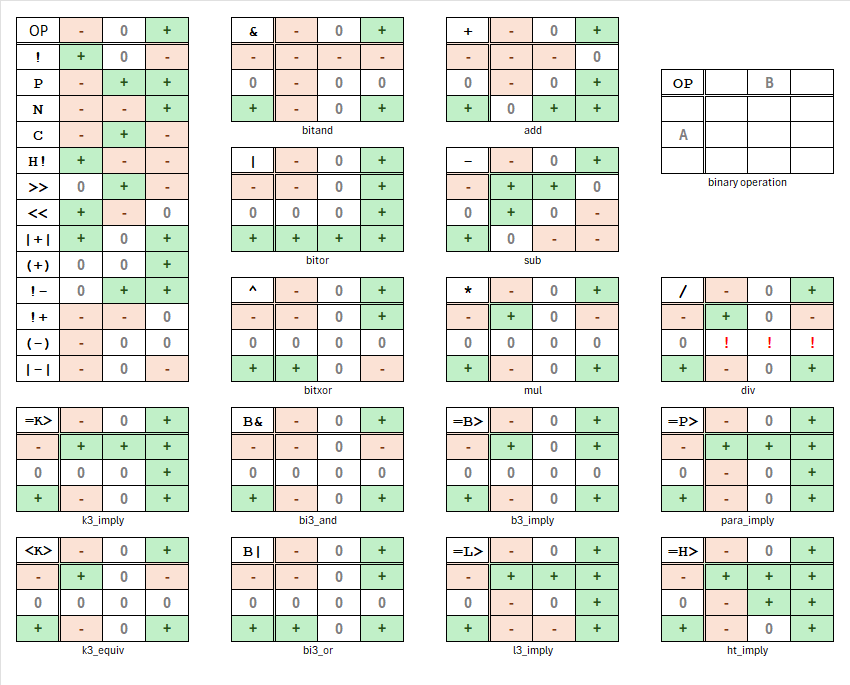
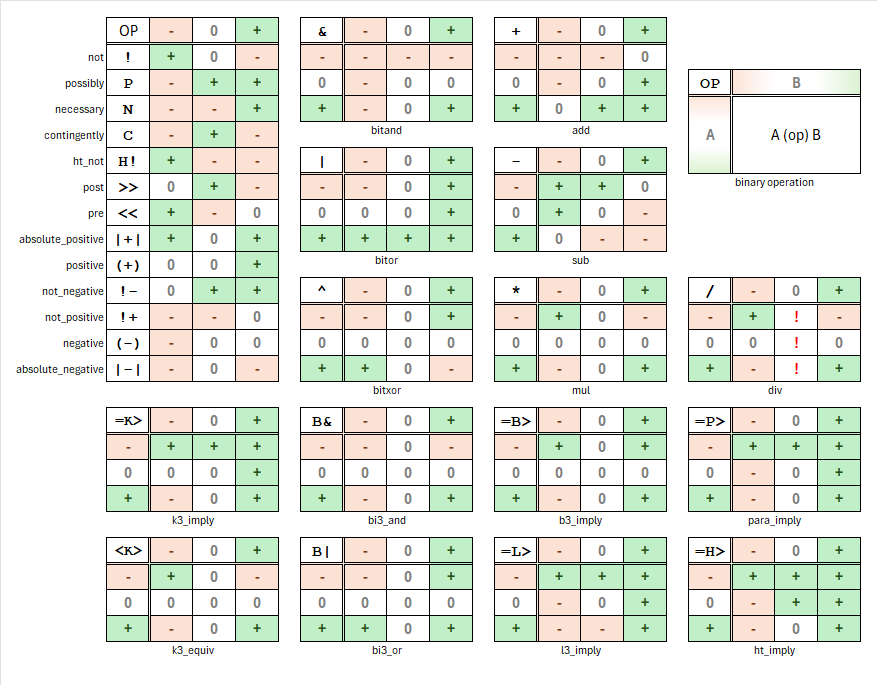
Bump version to 2.0.1 and update changelog
Updated Cargo.toml and Cargo.lock to reflect the new version. Introduced a new changelog entry with documentation updates for unary operations.

diff --git a/.changelog/v2.0.0.md b/.changelog/v2.0.0.md
@@ -4,7 +4,7 @@
 |------------------|----------------------------------------------|
 | Label            | Consistency update                           |
 | Type             | Major changes (Breaking retro-compatibility) |
-| Publication date | WIP                                          |
+| Publication date | 2025-03-28                                   |
 
 - **Added**: `DigitOperate` trait with `to_digit()`, `digit()` and `each_*()` methods.
 - **Added**: with the feature `ternary-store` : `Ter40` (operate + store structure).

diff --git a/.changelog/v2.0.1.md b/.changelog/v2.0.1.md
@@ -1,0 +1,9 @@
+# Version 2.0.0
+
+|                  |                           |
+|------------------|---------------------------|
+| Label            | Documentation consistency |
+| Type             | Revision                  |
+| Publication date | WIP                       |
+
+- **Updated**: added unary operation names.
